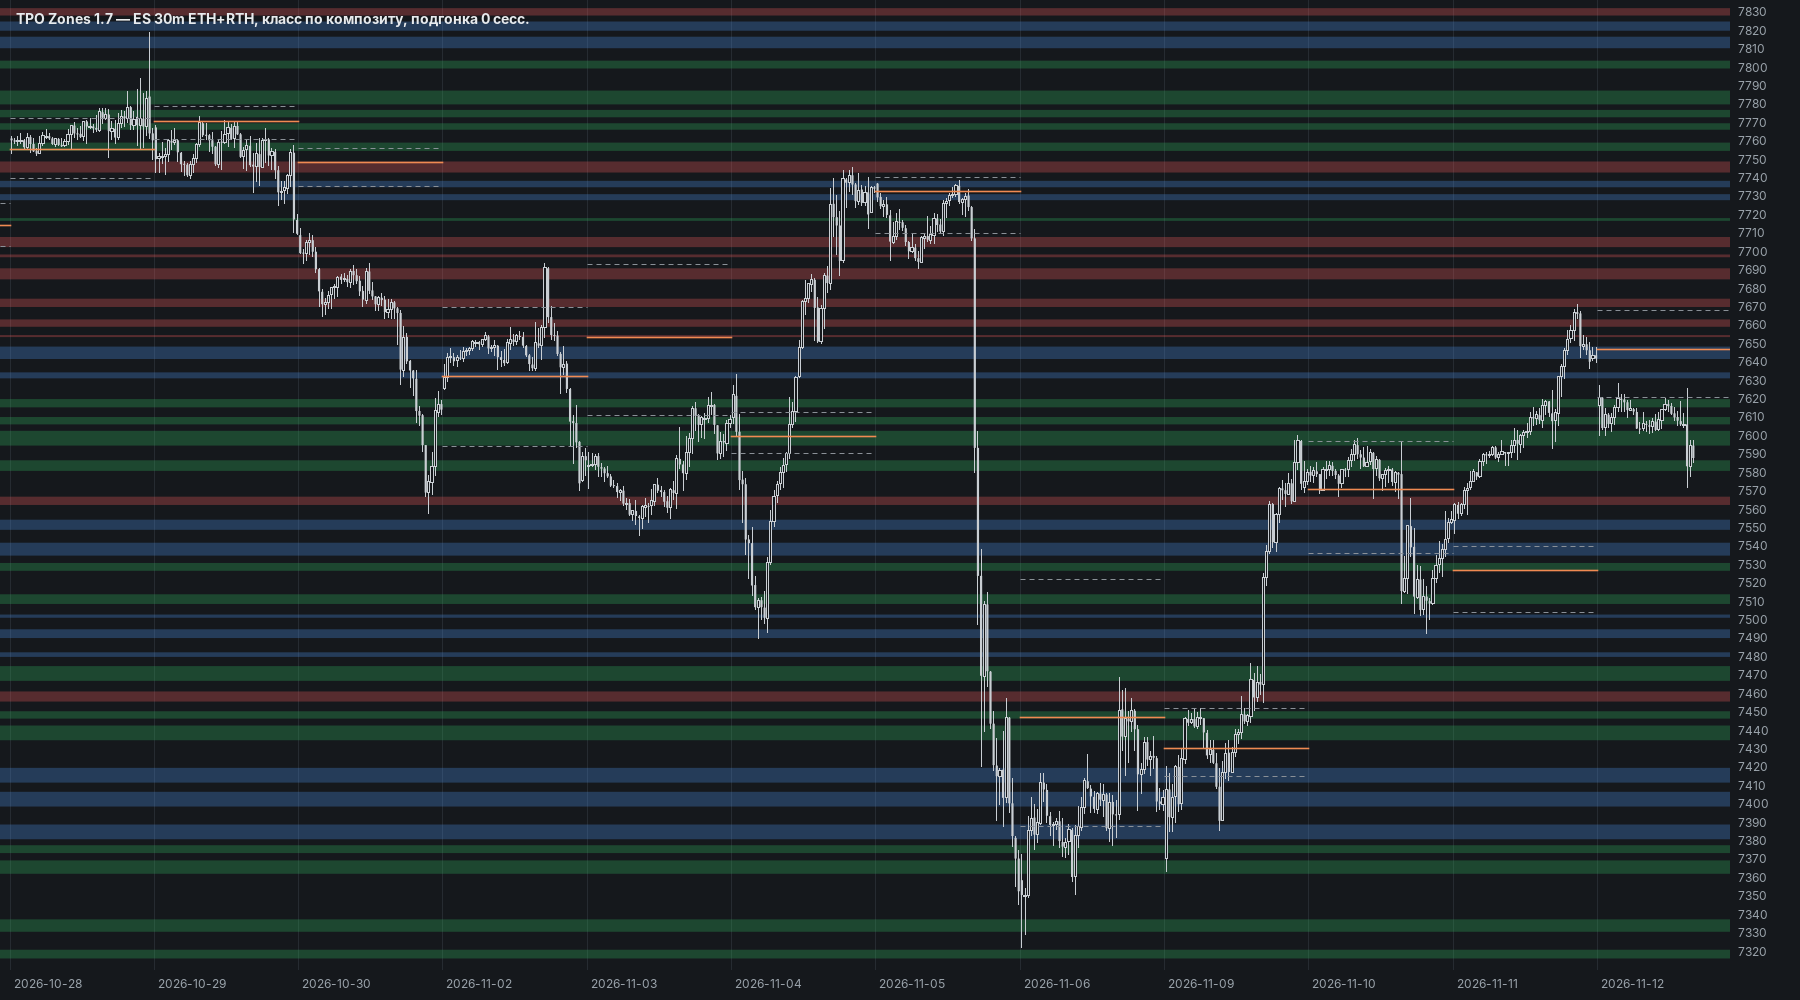
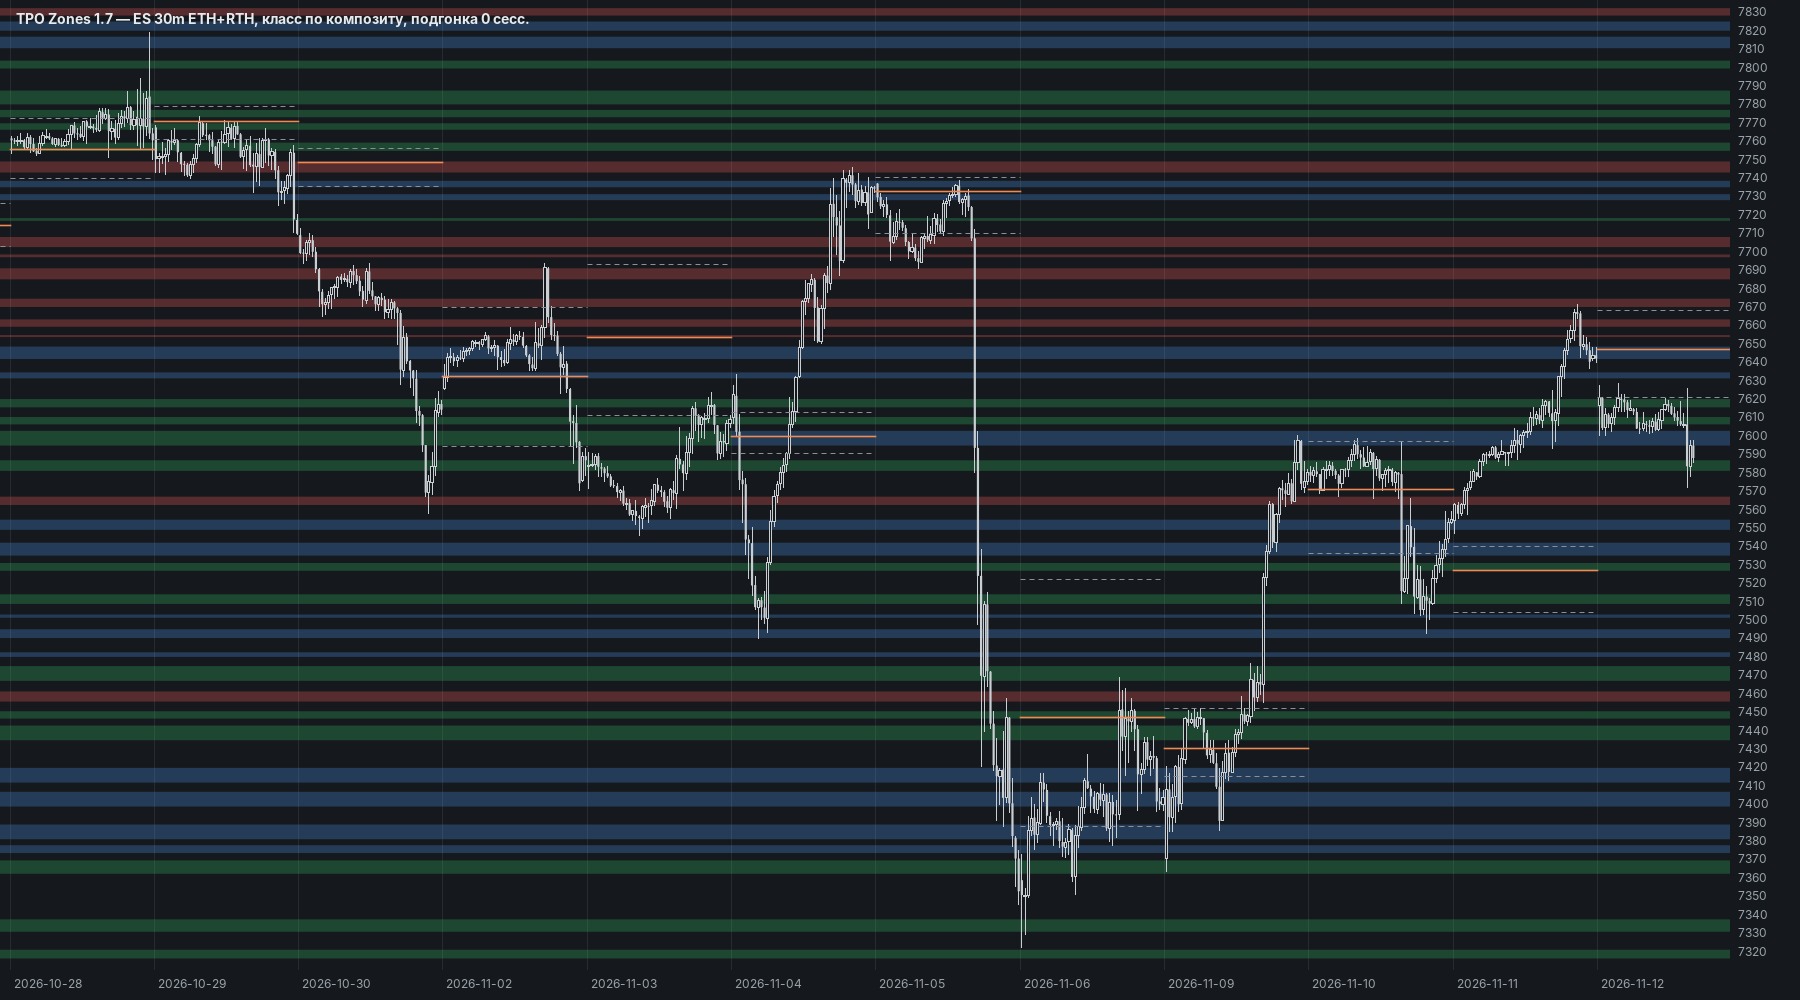
Composites: a day inside the range joins by the OR rule
A day whose High-Low lies at least 80% inside the composite range joins
when its close is in range OR its VA overlaps (setting, 0 = off); other
days still need both. 09.06-12.06 becomes one composite (12.06 sits fully
inside 09.06-11.06). 29.05-04.06 still splits at 80% (01.06 is 61% inside
29.05) and forms again at 60%.

Balances 87 -> 90, not-balances 5 -> 20, colour match with manual zones
26%. dist/TpoZones-1.7.jar is not rebuilt (no MotiveWave SDK here).

Claude-Session: https://claude.ai/code/session_01PTkojwxsX3jzc4BttC3Khg

Changed region(s): [[0.0, 0.837, 0.9644, 0.868], [0.4044, 0.434, 0.9644, 0.465]]

diff --git a/motivewave/src/patterns/zones/TpoZonesStudy.java b/motivewave/src/patterns/zones/TpoZonesStudy.java
@@ -56,7 +56,7 @@ import patterns.zones.ZoneEngine.Result;
 public class TpoZonesStudy extends Study {
 
     // ---- ключи настроек
-    static final String FALSE_BRK = "compFalseBreak", COMP_VA = "compVaOverlap", COMP_AND = "compJoinBoth", S_GAP = "sessMinGap", S_SHARE = "sessPeakShare", SESS = "sessionZones", S_PEAK = "sessMinPeak", S_BODY = "sessBody", CLUST = "bodyClusters", CL_DIP = "clusterDip", CL_MAX = "clusterMax", SUB_ADD = "subAddsZones", FIT_ETH = "fitEth", FIT_B = "fitBody", FIT_C = "fitCluster", PMAXB = "partMaxBody", PART = "partition", BODY = "bodyShare", PCORE = "partCore", PTGT = "partTarget", NODES = "coreNodes", NODE_DIP = "nodeDip", NODE_DROP = "nodeDrop", NO_OVERLAP = "noOverlap", MIN_PIECE = "minPiece", SHORT_DAYS = "compShortDays", SUB_OV = "subOverlap", SUB_RATIO = "subRatio", CLIFF = "coreCliff", CORE_DAYS = "coreMinDays", CORE_SESS = "coreFromSessions", JOIN_GAP = "joinGap", ZONE_W = "zoneMaxW", MODE = "compositeMode", CORE_VA = "coreByVa", BAR30 = "bar30", HISTORY_DAYS = "historyDays", TZ = "tz", RTH_START = "rthStart",
+    static final String FALSE_BRK = "compFalseBreak", COMP_VA = "compVaOverlap", COMP_AND = "compJoinBoth", COMP_IN = "compInsideShare", S_GAP = "sessMinGap", S_SHARE = "sessPeakShare", SESS = "sessionZones", S_PEAK = "sessMinPeak", S_BODY = "sessBody", CLUST = "bodyClusters", CL_DIP = "clusterDip", CL_MAX = "clusterMax", SUB_ADD = "subAddsZones", FIT_ETH = "fitEth", FIT_B = "fitBody", FIT_C = "fitCluster", PMAXB = "partMaxBody", PART = "partition", BODY = "bodyShare", PCORE = "partCore", PTGT = "partTarget", NODES = "coreNodes", NODE_DIP = "nodeDip", NODE_DROP = "nodeDrop", NO_OVERLAP = "noOverlap", MIN_PIECE = "minPiece", SHORT_DAYS = "compShortDays", SUB_OV = "subOverlap", SUB_RATIO = "subRatio", CLIFF = "coreCliff", CORE_DAYS = "coreMinDays", CORE_SESS = "coreFromSessions", JOIN_GAP = "joinGap", ZONE_W = "zoneMaxW", MODE = "compositeMode", CORE_VA = "coreByVa", BAR30 = "bar30", HISTORY_DAYS = "historyDays", TZ = "tz", RTH_START = "rthStart",
             RTH_END = "rthEnd", ETH_START = "ethStart", TICK = "tick", VA_PCT = "vaPct", HVN_SHARE = "hvnShare",
             HVN_MIN = "hvnMin", HVN_MAX = "hvnMax", GHVN_MIN = "greyHvnMin", GHVN_MAX = "greyHvnMax",
             MERGE_OV = "mergeOv", MERGE_W = "mergeW", COMP_DAYS = "compDays", GREY_HIST = "greyHist",
@@ -115,6 +115,7 @@ public class TpoZonesStudy extends Study {
         g.addRow(new DoubleDescriptor(MIN_PIECE, "Обрезанная зона уже, п. — не рисуется", 1.0, 0.25, 10, 0.25));
         g.addRow(new DoubleDescriptor(COMP_VA, "Композит: наслоение VA — VA дня и композита пересекаются на ≥ долю меньшей (0 — не проверять)", 0.5, 0, 1, 0.05));
         g.addRow(new BooleanDescriptor(COMP_AND, "Композит: день входит, только если close в диапазоне И наслоение VA (выкл. — ИЛИ)", true));
+        g.addRow(new DoubleDescriptor(COMP_IN, "Композит: день, чей High–Low на ≥ долю внутри диапазона композита, входит по ИЛИ (0 — выкл.)", 0.8, 0, 1, 0.05));
         g.addRow(new BooleanDescriptor(FALSE_BRK, "Композит: ложный выход — возврат close в диапазон закрытого композита (до 3 дней) доклеивает дни к нему", true));
         g.addRow(new BooleanDescriptor(SHORT_DAYS, "Короткие дни (ранние закрытия) входят в композиты", true));
         g.addRow(new DoubleDescriptor(SUB_OV, "Уточнение: ≥ доли диапазона композита внутри раннего баланса — его ядро серое (0 — выкл.)", 0.70, 0, 1, 0.05));
@@ -274,6 +275,7 @@ public class TpoZonesStudy extends Study {
         p.compositeShortDays = st.getBoolean(SHORT_DAYS, true);
         p.compVaOverlap = st.getDouble(COMP_VA, 0.5);
         p.compJoinBoth = st.getBoolean(COMP_AND, true);
+        p.compInsideShare = st.getDouble(COMP_IN, 0.8);
         p.compFalseBreak = st.getBoolean(FALSE_BRK, true);
         p.coreNodes = st.getBoolean(NODES, true);
         p.partition = st.getBoolean(PART, true);

diff --git a/motivewave/src/patterns/zones/ZoneEngine.java b/motivewave/src/patterns/zones/ZoneEngine.java
@@ -90,6 +90,8 @@ public final class ZoneEngine {
         public double compVaOverlap = 0.5;        // VA дня и VA композита пересекаются на ≥ эту долю меньшей из двух (0 — не проверять)
         public boolean compJoinBoth = true;       // склейка: close в диапазоне И пересечение VA (иначе — close в диапазоне ИЛИ пересечение VA);
                                                   // так же и доклейка после ложного выхода
+        public double compInsideShare = 0.8;      // ... но день, чей High–Low на ≥ эту долю внутри диапазона композита, клеится по ИЛИ
+                                                  // (0 — выкл.)
         public boolean sessionZones = true;       // зоны из узлов RTH TPO каждой сессии, подогнанные по телам / теням свечей;
                                                   // композит только задаёт роль (ядро / выше / ниже) и один раз перекрашивает
         public double sessNodeDrop = 1.0;         // узел — строки не ниже вершины на столько TPO (сглаж. 1 п.)
@@ -372,7 +374,7 @@ public final class ZoneEngine {
                 int c = ticks(d.close, tick);
                 if (cand.size() >= p.compositeMinDays) lastCand = null;
                 if (p.compositeMode && p.compFalseBreak && lastCand != null && c >= lastCp.low && c <= lastCp.high()
-                        && (!p.compJoinBoth || vaJoins(d, lastCp, p))
+                        && (!p.compJoinBoth || vaJoins(d, lastCp, p) || insideDay(d, lastCp, p))
                         && (lastCp.high() - lastCp.low) * tick <= p.compFalseBreakMaxPts && extCount < p.compFalseBreakMax) {
                     // ложный выход: композит закрылся, новый ещё не набрал дней, а цена закрылась обратно в его
                     // диапазоне — дни после выхода доклеиваются к нему, композит продолжается
@@ -384,7 +386,8 @@ public final class ZoneEngine {
                     continue;
                 }
                 boolean join = c >= cp.low && c <= cp.high();
-                if (p.compositeMode && p.compJoinBoth) join = join && vaJoins(d, cp, p);     // close в диапазоне И наслоение VA
+                boolean or = !p.compJoinBoth || insideDay(d, cp, p);          // день внутри композита — ИЛИ, иначе И
+                if (p.compositeMode && !or) join = join && vaJoins(d, cp, p);   // close в диапазоне И наслоение VA
                 else if (!join && p.compositeMode && p.compVaOverlap > 0) join = vaJoins(d, cp, p);   // ... ИЛИ
                 if (join) { cand.add(d); cp = merge(cp, d.profile); continue; }
                 Comp made = closeComposite(cand, cp, d.date, p, ob, greyComp, res.comps, res.notBalance);
@@ -735,6 +738,14 @@ public final class ZoneEngine {
         int inter = Math.min(d.vah, cva[2]) - Math.max(d.val, cva[1]) + 1;
         int narrow = Math.min(d.vah - d.val, cva[2] - cva[1]) + 1;
         return inter > 0 && inter / (double) narrow >= p.compVaOverlap;
+    }
+
+    /** High–Low дня на ≥ compInsideShare внутри диапазона композита (compInsideShare = 0 — выкл.). */
+    static boolean insideDay(Day d, Profile cp, Params p) {
+        if (p.compInsideShare <= 0) return false;
+        int lo = ticks(d.low, p.tick), hi = ticks(d.high, p.tick);
+        int in = Math.min(hi, cp.high()) - Math.max(lo, cp.low);
+        return in >= 0 && (hi == lo || in / (double) (hi - lo) >= p.compInsideShare - 1e-9);
     }
 
     private static Comp closeComposite(List<Day> cand, Profile cp, LocalDate endDay, Params p,

diff --git a/motivewave/README.md b/motivewave/README.md
@@ -22,8 +22,8 @@
   главного узла дня), подогнанные по телам свечей сессии ETH + RTH, 1–8 п.; первая зона на уровне главная —
   узел ближе 3 п. к существующей зоне её подтверждает, младшая налезающая зона не рисуется, между зонами
   всегда пустота; композит задаёт роль и один раз перекрашивает. Композит: день входит, только если close
-  в диапазоне **и** VA дня и композита пересекаются (≥ 50% меньшей), ложный выход доклеивает дни к закрытому
-  композиту. Исправлено ядро в нуле (зоны вне тела
+  в диапазоне **и** VA дня и композита пересекаются (≥ 50% меньшей); день, чей High–Low на ≥ 80% внутри
+  диапазона композита, — по **или**; ложный выход доклеивает дни к закрытому композиту. Исправлено ядро в нуле (зоны вне тела
   композита краснели). Замер против ручной разметки (`parity/Bench.java`) и сравнение картинкой
   (`Preview -Dmanual=…`).
 - **1.6** (ветка `zones-1.6`) — разметка композита как ручная расстановка: тело композита режется на
@@ -193,9 +193,11 @@ java -cp <classes> Bench bars.csv output/manual_zones_bench.csv compositeMode=tr
 **Как складывается композит** (режим «по композиту»): RTH-дни по порядку (короткие тоже), профиль
 кандидата — сумма TPO его дней. День входит, только если выполнены **оба** условия: его close внутри
 High–Low кандидата **и** VA дня и VA кандидата пересекаются на ≥ 50% меньшей из двух (наслоение VA).
-Иначе кандидат закрывается, день открывает новый. **Ложный выход:** если новый кандидат ещё не набрал
+Исключение — **день внутри**: если High–Low дня на ≥ 80% лежит внутри диапазона кандидата (настройка,
+0 — выкл.), достаточно одного из условий (close в диапазоне **или** наслоение VA). Иначе кандидат
+закрывается, день открывает новый. **Ложный выход:** если новый кандидат ещё не набрал
 3 дней, а день закрылся обратно в диапазоне только что закрытого композита (не шире 100 п.) и его VA
-наслаивается на VA композита, дни после выхода доклеиваются к нему (не больше 2 раз подряд). Кандидат
+наслаивается на VA композита (или день внутри), дни после выхода доклеиваются к нему (не больше 2 раз подряд). Кандидат
 ≥ 3 дней — композит (затем фильтры: баланс по VA дней, уточнение внутри раннего баланса, тело ≤ 100 п.).
 Галочка «close в диапазоне И наслоение VA» снята — старое правило 1.7: close в диапазоне **или** наслоение VA.
 
@@ -203,11 +205,22 @@ High–Low кандидата **и** VA дня и VA кандидата пере
 внутри него. 09.06 провалился до 7247.25, но закрылся на 7392.75 — на 13 п. выше лоя 05.06, т.е. в
 диапазоне; VA 09.06 (7287.50–7402) с VA кандидата (7406.50–7476.50) не пересекается. По «или» 09.06–12.06
 приклеивались к 05.06–08.06 в один композит на 306 п. с ядром у 7429–7439. По «и» 09.06 открывает новый
-кандидат: 10.06 (VA внутри VA 09.06) и 11.06 (наслоение 53%) входят, 12.06 (close в диапазоне, VA выше VA
-кандидата) — выход. Композит 09.06–11.06, диапазон 7247.25–7491, сложился 12.06.
-Цена правила — ренж 29.05–04.06 снова не композит: 01.06 закрылся на 1.75 п. выше диапазона, а VA 02.06 над
-VA кандидата. По всей истории: балансов 88 → 87, композитов-не-балансов (дни не сходятся в ядре) 51 → 5,
-медиана диапазона 99.5 → 80.5 п.; зоны те же, цвет совпадает с ручной разметкой в 26% вместо 23%.
+кандидат: 10.06 (VA внутри VA 09.06) и 11.06 (наслоение 53%) входят; 12.06 — VA выше VA кандидата, но
+весь день (7366.50–7461.75) внутри диапазона 7247.25–7491, поэтому по «или» входит. Композит 09.06–12.06,
+сложился 15.06 (гэп вверх). Без правила «день внутри» 12.06 — выход, композит 09.06–11.06.
+
+Ренж 29.05–04.06 при 80% — не композит: 01.06 закрылся на 1.75 п. выше диапазона 29.05, VA наслаиваются на
+100%, но внутри диапазона 29.05 только 61% дня. При доле ≤ 60% он снова один композит 29.05–04.06.
+
+| Склейка | Балансов | Не-балансов | Медиана диапазона | Цвет vs ручные |
+|---|---|---|---|---|
+| ИЛИ (1.7 до правки) | 88 | 51 | 99.5 п. | 23% |
+| И | 87 | 5 | 80.5 п. | 26% |
+| И, день внутри ≥ 80% — ИЛИ (по умолчанию) | 90 | 20 | 92.8 п. | 26% |
+| И, день внутри ≥ 60% — ИЛИ | 92 | 31 | 99.5 п. | 23% |
+
+Зоны во всех вариантах те же (композит задаёт только роль); не-баланс — композит, дни которого не сходятся
+в ядре (выбрасывается).
 
 **Сессионные зоны** (по умолчанию, галочка «Зоны из сессий»): зоны из узлов RTH TPO каждой сессии
 (вершина ≥ 3 TPO, провалы ≥ 15% меньшей вершины), подогнанные по телам свечей сессии ETH + RTH (скопление
